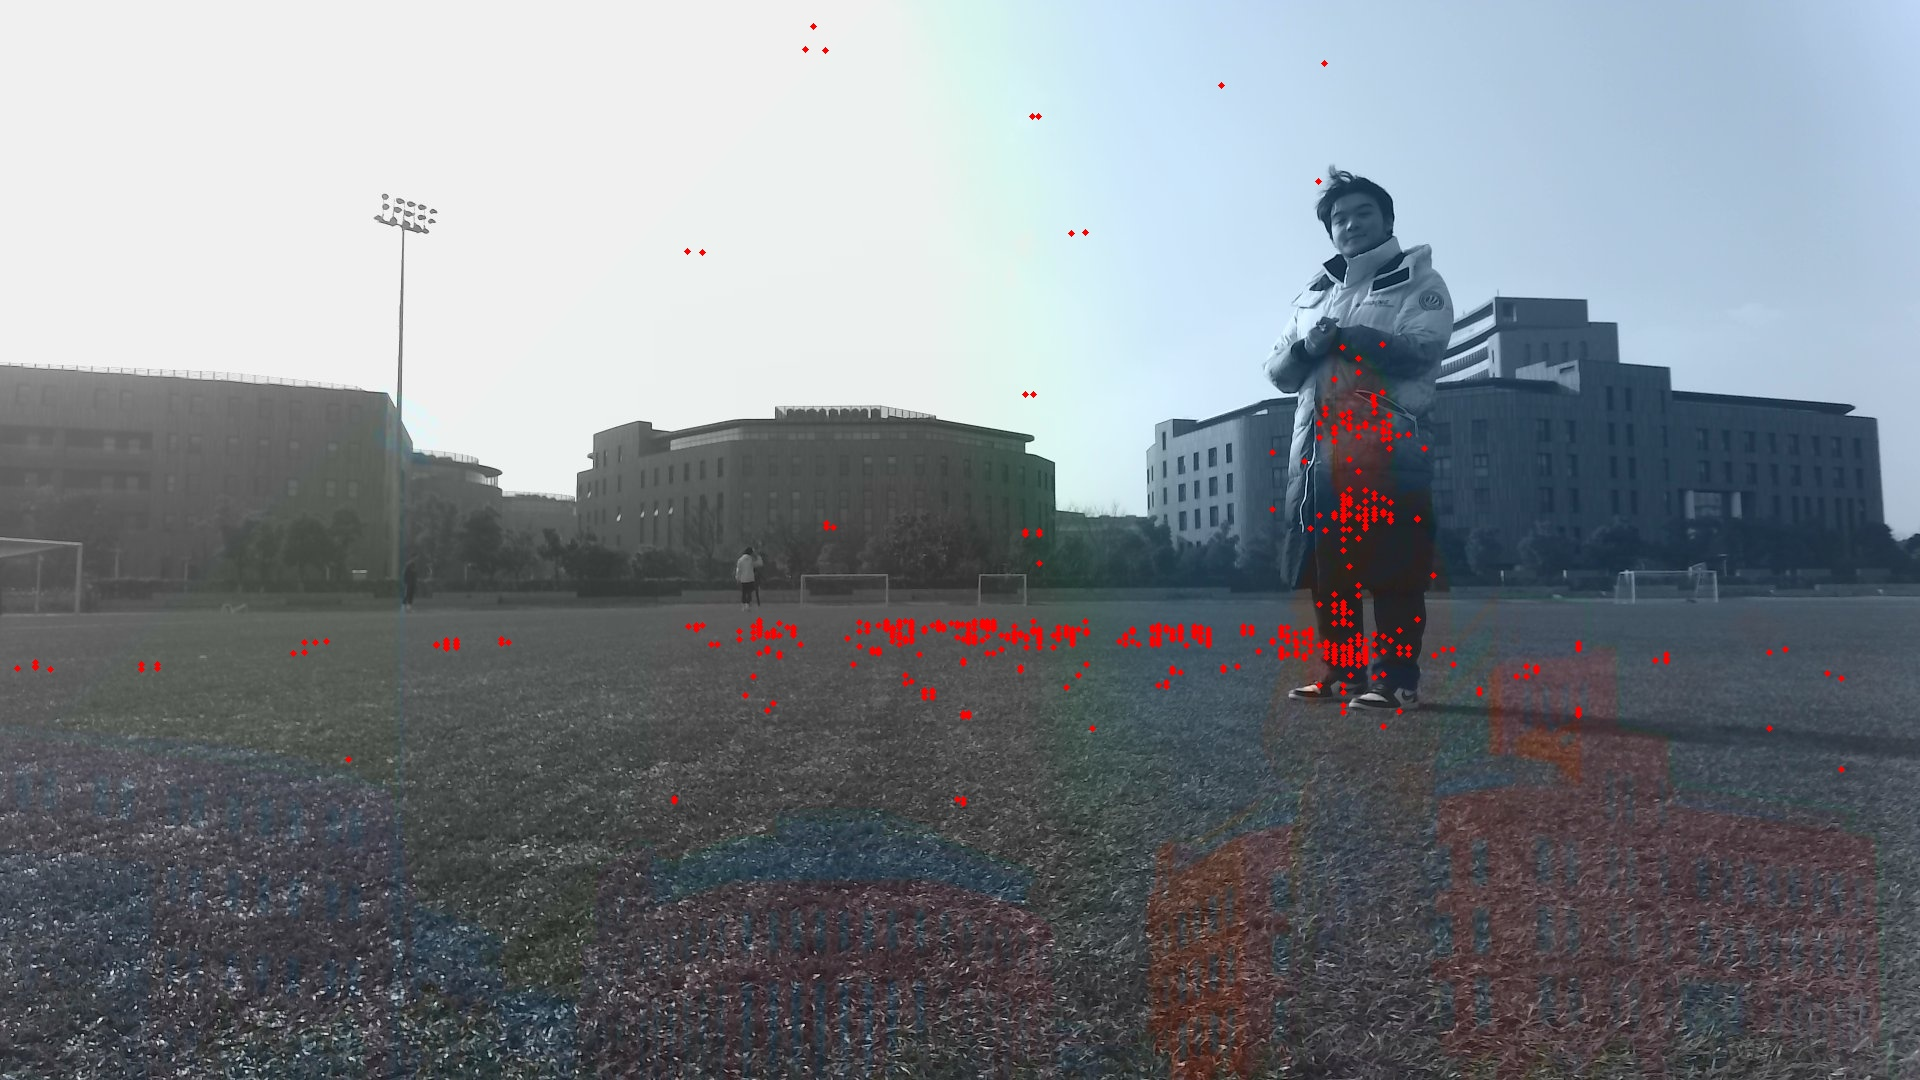
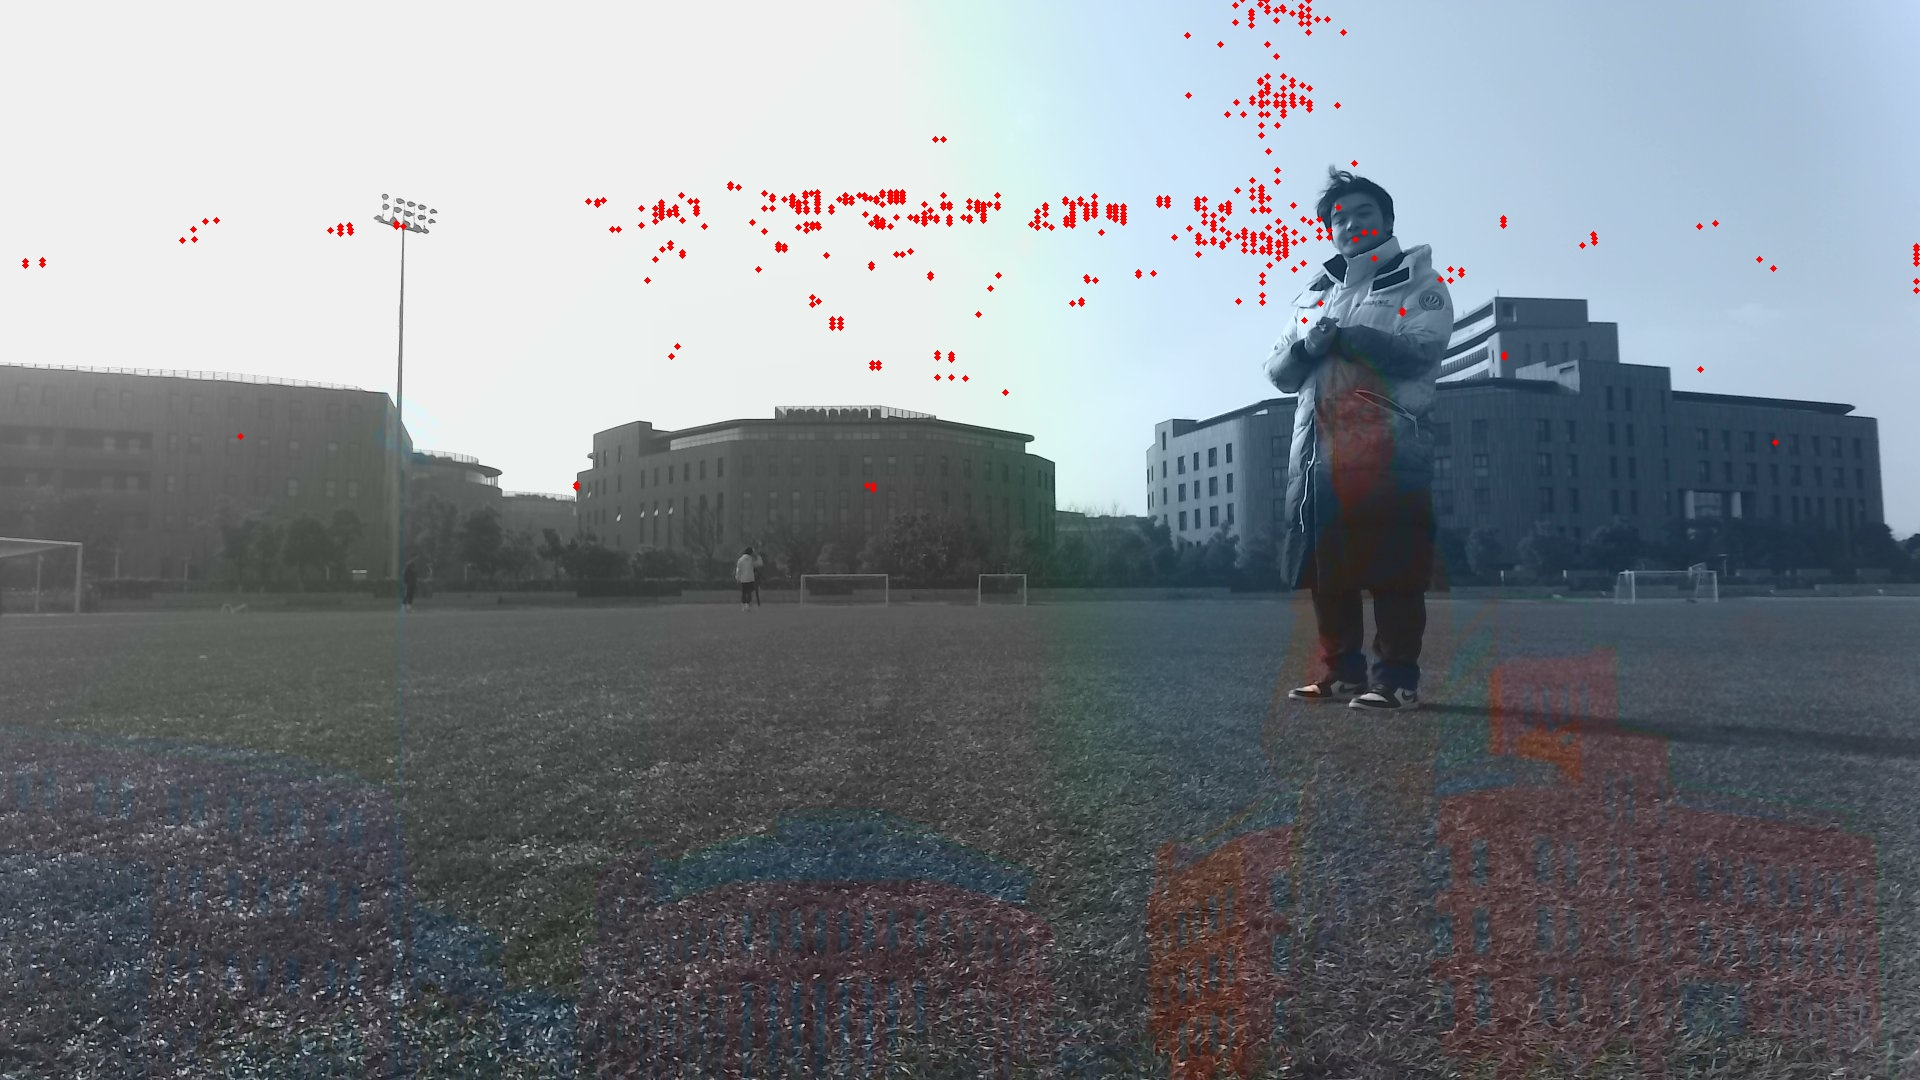
initial function

diff --git a/Calibration/test.py b/Calibration/test.py
@@ -8,12 +8,30 @@ from Visualization import util as v_util
 def main():
     intrinsic_matrix, extrinsics_opt = calibration.calibration__camera(model=1)
     obj_points, img_points, img_shapes, img_names = cd.find_corners(model=1)
-
-    test1 = np.dot(np.dot(util.to_homogeneous_3d_multiple_points(obj_points[0])
-                          , extrinsics_opt[0].T), intrinsic_matrix.T)
+    aa = np.dot(util.to_homogeneous_3d_multiple_points(obj_points[1])
+                          , extrinsics_opt[8].T)
+    test1 = np.dot(np.dot(util.to_homogeneous_3d_multiple_points(obj_points[8])
+                          , extrinsics_opt[8].T), intrinsic_matrix.T)
     test = np.divide(test1, test1[:, 2].reshape(test1.shape[0], 1))
-    v_util.draw_points_on_picture("../Visualization/images/1080/IMG_001.jpg", test, "../Visualization/images/1.jpg")
+    test = test[0:8, :]
+    v_util.draw_points_on_picture("./images/1080/IMG_radar.jpg", test, "./images/3.jpg")
 
 
 if __name__ == "__main__":
-    main()
+   # inv, outv =  calibration.calibration_mmw_radar_camera(model=1)
+   # intrinsic_matrix, extrinsics_opt = calibration.calibration__camera(model=1)
+   # obj_points, img_points, img_shapes, img_names = cd.find_corners(model=1)
+   # camera_points = np.dot(util.to_homogeneous_3d_multiple_points(obj_points[8])
+   #                        , extrinsics_opt[8].T)
+   # radar_points = util.create_sample_plane(camera_points)
+   #
+   # tmp = np.dot(radar_points
+   #                       , outv.T)
+   #
+   # test1 = np.dot(np.dot(radar_points
+   #                       , outv.T), inv.T)
+   #
+   # test = np.divide(test1, test1[:, 2].reshape(test1.shape[0], 1))
+   # test = test[0:8]
+   # v_util.draw_points_on_picture("./images/1080/IMG_radar.jpg", test, "./images/2.jpg")
+   main()

diff --git a/Calibration/util.py b/Calibration/util.py
@@ -285,15 +285,26 @@ def rotationMatrixToEulerAngles(R):
     return np.array([x, y, z])
 
 
-def create_sample_plane(width, height, x, y, z):
-    orgin_point = [x, y, z]
-    width_points_set = []
-    for i in range(1, 10):
-        width_points_set.append([x + ((width / 10) * i), y, z])
+# def create_sample_plane(width, height, x, y, z):
+#     orgin_point = [x, y, z]
+#     width_points_set = []
+#     for i in range(1, 10):
+#         width_points_set.append([x + ((width / 10) * i), y, z])
+#
+#     points_set = []
+#     for point in width_points_set:
+#         for i in range(1, 10):
+#             points_set.append([point[0], point[1] + ((height / 10) * i), point[2]])
+#
+#     return np.array(points_set)
 
-    points_set = []
-    for point in width_points_set:
-        for i in range(1, 10):
-            points_set.append([point[0], point[1] + ((height / 10) * i), point[2]])
+def create_sample_plane(camera_points, square_size=0.0275, width=8, height=5, xOffset=- 0.063, yOffset=-0.174, zOffset=0.2318):
+    objp = np.zeros((height * width, 2), np.float32)
+    objp[:, :2] = np.mgrid[0:width, 0:height].T.reshape(-1, 2)
+    objp = objp * square_size
 
-    return np.array(points_set)
+    objp[:, 0] = objp[:, 0] + xOffset
+    objp[:, 1] = objp[:, 1] + yOffset
+    objp = np.concatenate((objp, np.ones((objp.shape[0], 1), np.float32) * zOffset), axis=1)
+    objp[:, 0] = camera_points[:, 0]
+    return objp

diff --git a/Calibration/extrinsic_estimation.py b/Calibration/extrinsic_estimation.py
@@ -36,7 +36,18 @@ def compute_extrinsics(A, homography):
     return E
 
 
-def compute_wwm_extrinsics(t):
-    R = np.identity(3)
-    E = np.hstack((R,t[:, np.newaxis]))
-    return E
+def compute_wwm_extrinsics(camera_point, radar_points):
+    radar_points = np.concatenate((radar_points, np.ones((radar_points.shape[0], 1), np.float32)), axis=1)
+    u = camera_point[:, 0].T
+    v = camera_point[:, 1].T
+    w = radar_points[:, 2].T
+    i = np.ones([1,camera_point.shape[0]])
+    T1 = (np.linalg.inv(radar_points.T.dot(radar_points)).dot(radar_points.T).dot(u.T)).T
+    T2 = (np.linalg.inv(radar_points.T.dot(radar_points)).dot(radar_points.T).dot(v.T)).T
+    T3 = (np.linalg.inv(radar_points.T.dot(radar_points)).dot(radar_points.T).dot(w.T)).T
+    T4 = (np.linalg.inv(radar_points.T.dot(radar_points)).dot(radar_points.T).dot(i.T)).T
+    T = np.vstack((T1, T2, T3, T4))
+    return T
+    # R = np.identity(3)
+    # E = np.hstack((R,t[:, np.newaxis]))
+    # return E

diff --git a/Calibration/calibration.py b/Calibration/calibration.py
@@ -61,6 +61,14 @@ def calibration__camera(model):
 
 
 def calibration_mmw_radar_camera(model):
-    intrinsic_matrix, tmp = calibration__camera(model=model)
-    wwm_extrinsics_matrix = extr.compute_wwm_extrinsics(np.array([0, -0.1245, 0]))
+    intrinsic_matrix, extrinsics_opt = calibration__camera(model=model)
+    obj_points, img_points, img_shapes, img_names = cd.find_corners(model=1)
+    camera_points = np.dot(util.to_homogeneous_3d_multiple_points(obj_points[8])
+           , extrinsics_opt[8].T)
+    radar_points = util.create_sample_plane(camera_points)
+
+    wwm_extrinsics_matrix = extr.compute_wwm_extrinsics(camera_points, radar_points)
     return intrinsic_matrix, wwm_extrinsics_matrix
+
+
+

diff --git a/Visualization/mathTest.py b/Visualization/mathTest.py
@@ -1,10 +1,11 @@
 import numpy as np
 
-p = np.array([[1,2,3,1],[2,3,3,1], [3,4,4,1], [4,5,4,1], [5,6,5,1]])
-u = np.array([[2,4,6,8,10]])
-v = np.array([[2,3,4,5,6]])
-w =  np.array([[9,9,12,12,15]])
-i = np.ones([1,5])
+p = np.array([[1,2,3,1],[2,3,3,1], [3,4,4,1], [4,5,4,1], [5,6,5,1],[6,2,3,1],[7,3,3,1], [8,4,4,1], [9,5,4,1], [10,6,5,1]])
+u = np.array([[2,4,6,8,10,12,14,16,18,19]])
+v = np.array([[3,4,5,6,7,3,4,5,6,7]])
+w =  np.array([[3,3,4,4,5,3,3,4,4,5]])
+p.
+i = np.ones([1,10])
 T1 =(np.linalg.inv(p.T.dot(p)).dot(p.T).dot(u.T)).T
 T2 =(np.linalg.inv(p.T.dot(p)).dot(p.T).dot(v.T)).T
 T3 =  (np.linalg.inv(p.T.dot(p)).dot(p.T).dot(w.T)).T

diff --git a/Visualization/clean_radar_data.py b/Visualization/clean_radar_data.py
@@ -16,8 +16,8 @@ def common_read(csv_dir: str, picture_dir: str):
 
 
 def get_calibration_result(intrinsic_matrix, wwm_extrinsics_matrix, frame):
-    posArray = frame[[' Xpos', ' YPos', ' ZPos', 'union']].to_numpy(dtype=float)
-    tmp = np.dot(posArray, wwm_extrinsics_matrix.T)
+    posArray = frame[[' Xpos', ' YPos', ' ZPos']].to_numpy(dtype=float)
+
     test1 = np.dot(np.dot(posArray, wwm_extrinsics_matrix.T), intrinsic_matrix.T)
     # normalize z axis
     test = np.divide(test1, test1[:, 2].reshape(test1.shape[0], 1))

diff --git a/Calibration/corner_detection.py b/Calibration/corner_detection.py
@@ -23,9 +23,9 @@ def find_corners(model=0, square_size=0.0275, width=8, height=5):
     img_shapes = []  # Image sizes with names
 
     if model == 0:
-        images = glob.glob('../Visualization/images/4k/IMG*.jpg')
+        images = glob.glob('./images/4k/IMG*.jpg')
     else:
-        images = glob.glob('../Visualization/images/1080/IMG*.jpg')
+        images = glob.glob('./images/1080/IMG*.jpg')
     count = 1
     index = 0
     for fname in images:

diff --git a/Visualization/visual.py b/Visualization/visual.py
@@ -3,9 +3,9 @@ from Visualization import clean_radar_data
 from Visualization import util
 import numpy as np
 
-picture_dir = "./outData/1/IMG_001.jpg"
-csv_dir = "./outData/1/pcl/pcl.csv"
-out_dir = "./outData/1/pcl/1.jpg"
+picture_dir = "./outData/3/IMG_001.jpg"
+csv_dir = "./outData/3/pcl/pcl.csv"
+out_dir = "./outData/3/pcl/1.jpg"
 intrinsic_matrix, wwm_extrinsics_matrix = calibration.calibration_mmw_radar_camera(model=1)
 
 

diff --git a/Calibration/tmp.py b/Calibration/tmp.py
@@ -1,0 +1,12 @@
+import numpy as np
+
+# height = 8
+# width = 5
+# square_size = 0.0275
+# objp = np.zeros((height * width, 2), np.float32)
+# objp[:, :2] = np.mgrid[0:width, 0:height].T.reshape(-1, 2)
+# objp = objp * square_size
+#
+# objp[:, 0] = objp[:, 0] - 0.102
+# objp[:, 1] = objp[:, 1] + 0.064
+# objp = np.concatenate((objp,np.ones((objp.shape[0], 1), np.float32)*0.2318),axis=1)
